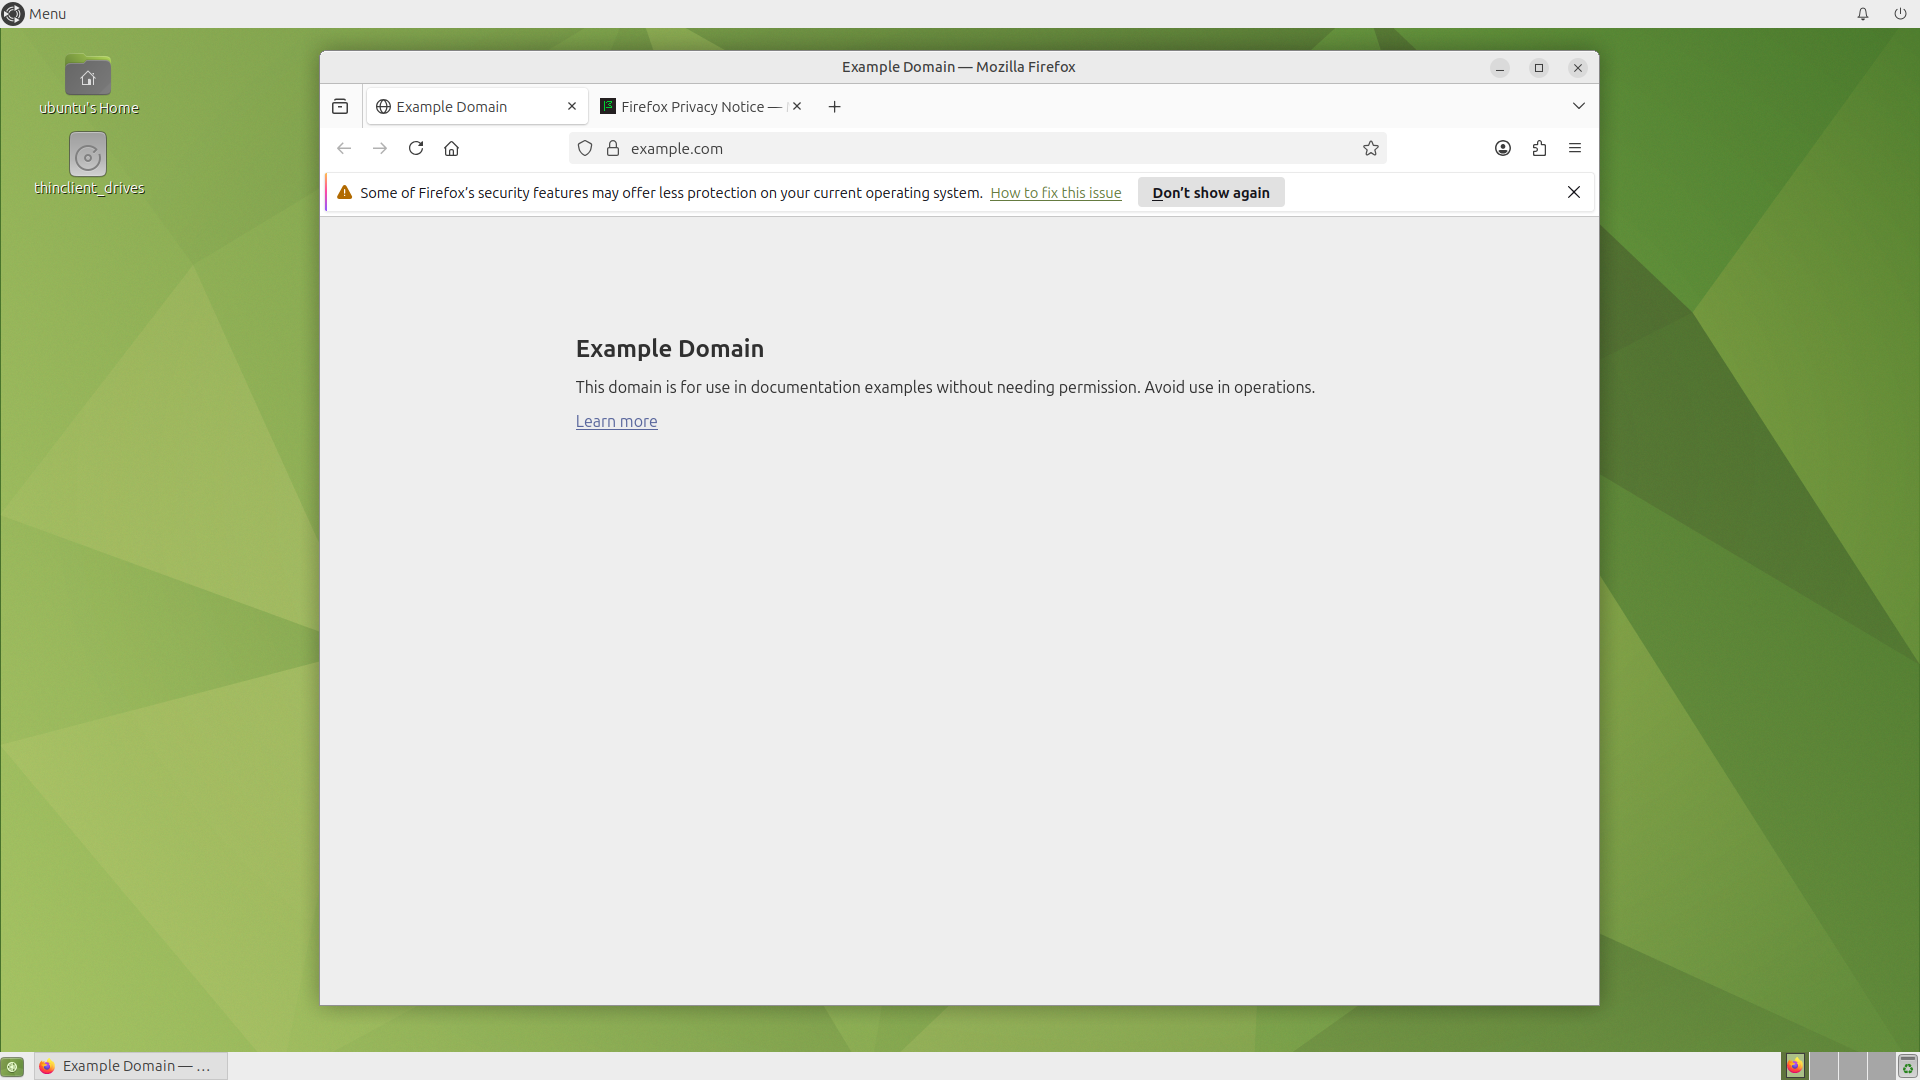
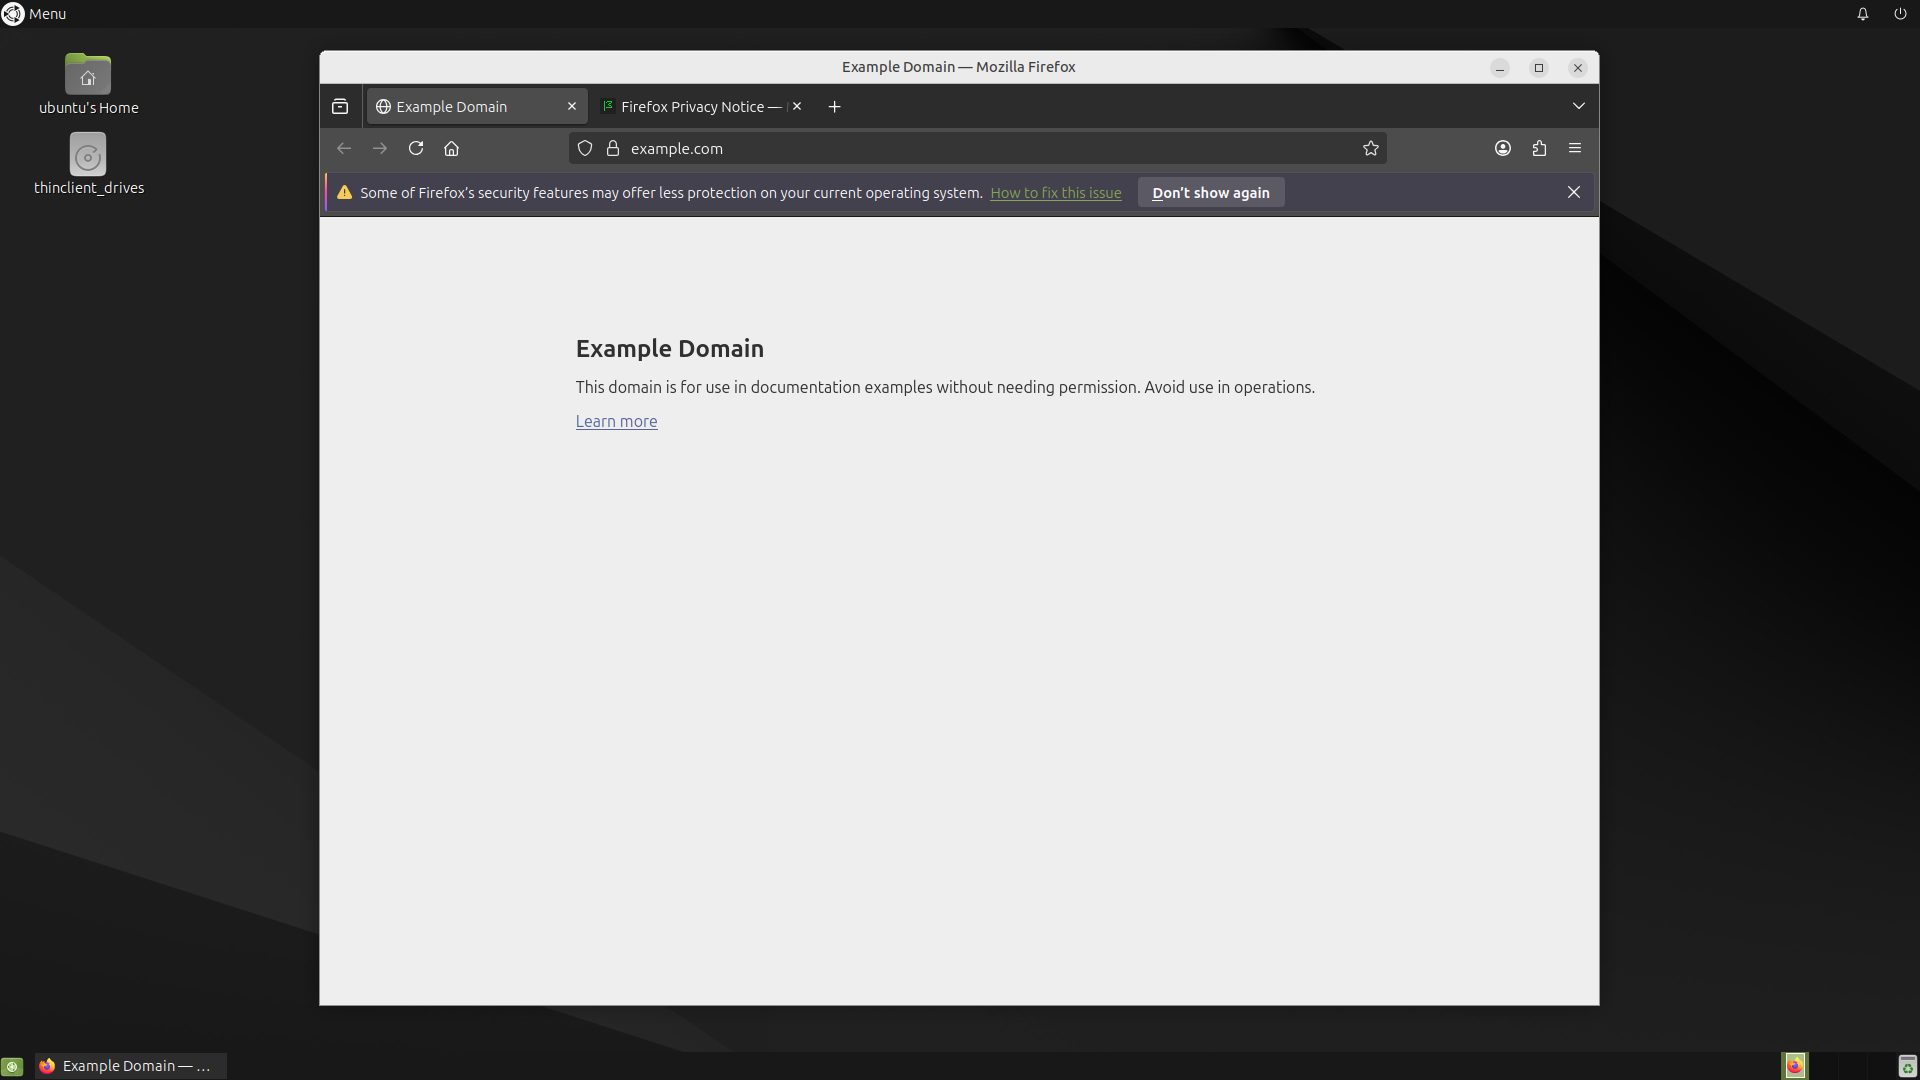
Dark theme (Yaru-MATE-dark + dark Numbat wallpaper) and connect.rdp with pre-filled username; refreshed verified screenshots

diff --git a/README.md b/README.md
@@ -25,7 +25,7 @@ This project provides a **stock Ubuntu 24.04.5 LTS (Noble Numbat) MATE desktop**
 It uses:
 
 - 🐧 **Ubuntu 24.04.5 LTS (Noble)** — Linux base system (latest point release)
-- 🖥 **MATE** — lightweight desktop with the standard Ubuntu MATE wallpaper, panel and default apps
+- 🖥 **MATE** — lightweight desktop with the stock Ubuntu MATE apps, default panel and the **dark theme** (Yaru-MATE-dark + dark Numbat wallpaper)
 - 🦊 **Firefox ESR** — real browser that actually works inside a container (see below)
 - 🔐 **XRDP** — Remote Desktop Protocol server
 - 🐳 **Docker** — containerized environment
@@ -59,7 +59,7 @@ Note the `Pending upgrades: 0` line — everything is fully updated & upgraded.
 
 ### 2. The desktop, right after a normal RDP login
 
-The stock Ubuntu MATE (Noble Numbat) wallpaper, panel, apps and features.
+The stock Ubuntu MATE (Noble Numbat) dark wallpaper, dark panel (Yaru-MATE-dark) and all default apps.
 
 <p align="center">
   <img src="docs/screenshot-2-desktop.png" alt="Ubuntu MATE desktop after RDP login">
@@ -82,6 +82,25 @@ If a container image ships Ubuntu's **snap-based Firefox**, the browser can neve
 > **Failed to execute default Web Browser. Input/output error.**
 
 **Fix in this image:** the official **Mozilla Firefox ESR** build is installed to `/opt/firefox` and registered as the system default browser (`x-www-browser` alternative + MIME defaults). Clicking any link, the menu's *Web Browser* entry, or any app that opens a URL now launches Firefox ESR correctly.
+
+---
+
+## 🌙 Dark Theme (pre-configured)
+
+The image ships with the **Yaru-MATE-dark** theme and the **dark stock Numbat wallpaper** — set at build time in the user's dconf database, so every login is dark by default:
+
+- Window/panel theme: `Yaru-MATE-dark`
+- Icon theme: `Yaru-MATE-dark`
+- Color scheme: prefer dark (terminal, menus and dialogs are dark)
+- Wallpaper: `numbat_wallpaper_dark` (the dark version of the stock Noble Numbat wallpaper)
+
+Want the light theme instead? Inside the session, open a terminal and run:
+
+```bash
+gsettings set org.mate.interface gtk-theme "Yaru-MATE-light"
+gsettings set org.mate.interface icon-theme "Yaru-MATE-light"
+gsettings set org.mate.background picture-filename /usr/share/backgrounds/ubuntu-mate-noble/numbat_wallpaper_green_3480x2160.jpg
+```
 
 ---
 
@@ -126,6 +145,7 @@ If a container image ships Ubuntu's **snap-based Firefox**, the browser can neve
 ubuntu-lite-xrdp/
 ├── Dockerfile
 ├── start.sh
+├── connect.rdp        ← ready-made RDP file (username pre-filled)
 ├── README.md
 └── docs/
     ├── screenshot-1-system-info.png
@@ -258,6 +278,32 @@ Username: ubuntu
 Password: 1122
 ```
 
+### 📌 Username is pre-filled — you only type the password
+
+This repo includes **`connect.rdp`**, a ready-made Windows RDP file with the username already set:
+
+```text
+full address:s:REPLACE_WITH_RAILWAY_TCP_ADDRESS
+username:s:ubuntu
+```
+
+So at login you do **not** need to type the username — only the password.
+
+**How to use it:**
+
+1. Download `connect.rdp` from this repo
+2. Open it with a text editor (Notepad)
+3. Replace `REPLACE_WITH_RAILWAY_TCP_ADDRESS` with your Railway TCP address, e.g.:
+
+```text
+full address:s:abc123.proxy.rlwy.net:18472
+```
+
+4. Save the file and **double-click** it (it opens in Windows Remote Desktop with `ubuntu` already filled in)
+5. Press **Connect** and type only the password: `1122`
+
+> 💡 Even if you connect normally with `mstsc`, Windows can remember the username for you: on the first login window tick **“Remember my username”** — from the next time only the password is needed.
+
 ---
 
 ### 🌐 6⃣ Configure Railway TCP Proxy
@@ -330,6 +376,10 @@ abc123.proxy.rlwy.net:18472
 
 ### 🪟 8⃣ Connect From Windows
 
+**Easiest way (username pre-filled):** use the `connect.rdp` file from this repo — see [RDP Login Information](#-rdp-login-information). Just replace the address line and double-click it.
+
+**Manual way:**
+
 Press:
 
 ```text
@@ -351,7 +401,7 @@ abc123.proxy.rlwy.net:18472
 Click **Connect**, then use:
 
 ```text
-Username: ubuntu
+Username: ubuntu   (tick "Remember my username" to never type it again)
 Password: 1122
 ```
 
@@ -415,8 +465,10 @@ Everything else works the same way. (24.04.5 LTS was kept as the default because
 | Setting | Value |
 |---|---|
 | 🐧 OS | Ubuntu 24.04.5 LTS (Noble Numbat) |
-| 🖥 Desktop | MATE (stock Ubuntu MATE look) |
+| 🖥 Desktop | MATE (stock apps, dark theme) |
+| 🌙 Theme | Yaru-MATE-dark + dark Numbat wallpaper |
 | 🦊 Browser | Firefox ESR (container-compatible, default) |
+| 📌 RDP file | `connect.rdp` (username pre-filled) |
 | 🔐 Remote Protocol | XRDP / RDP |
 | 🔌 Container Port | 3389 |
 | 👤 Username | `ubuntu` |
